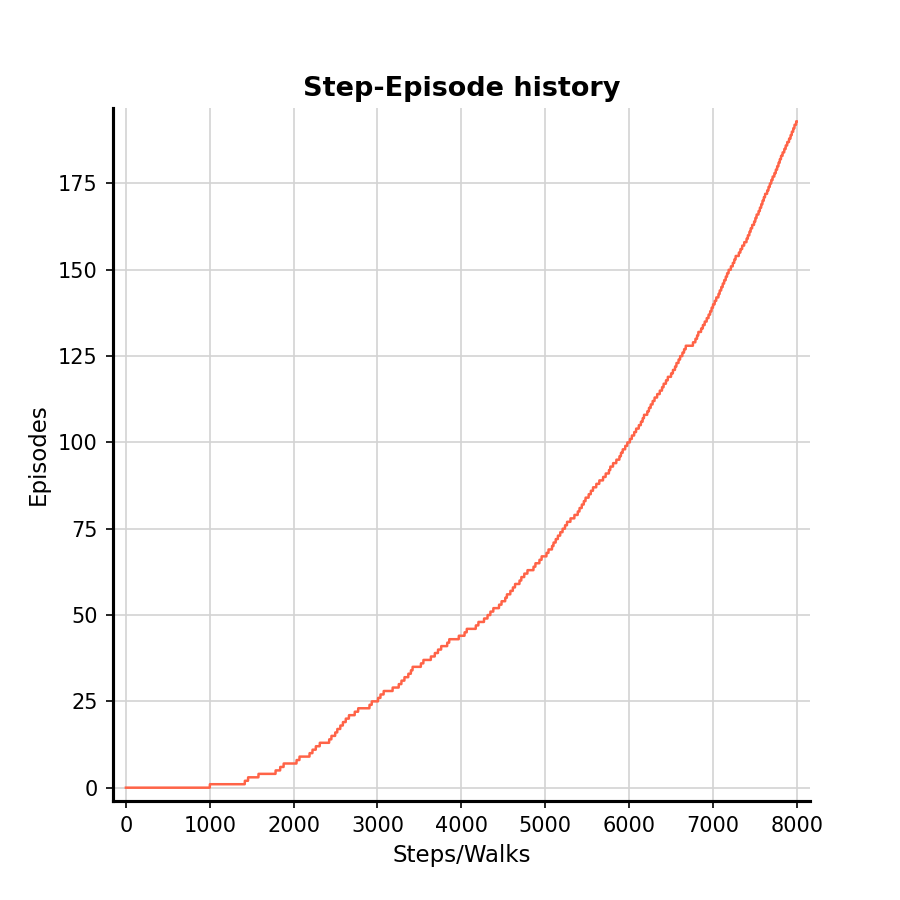
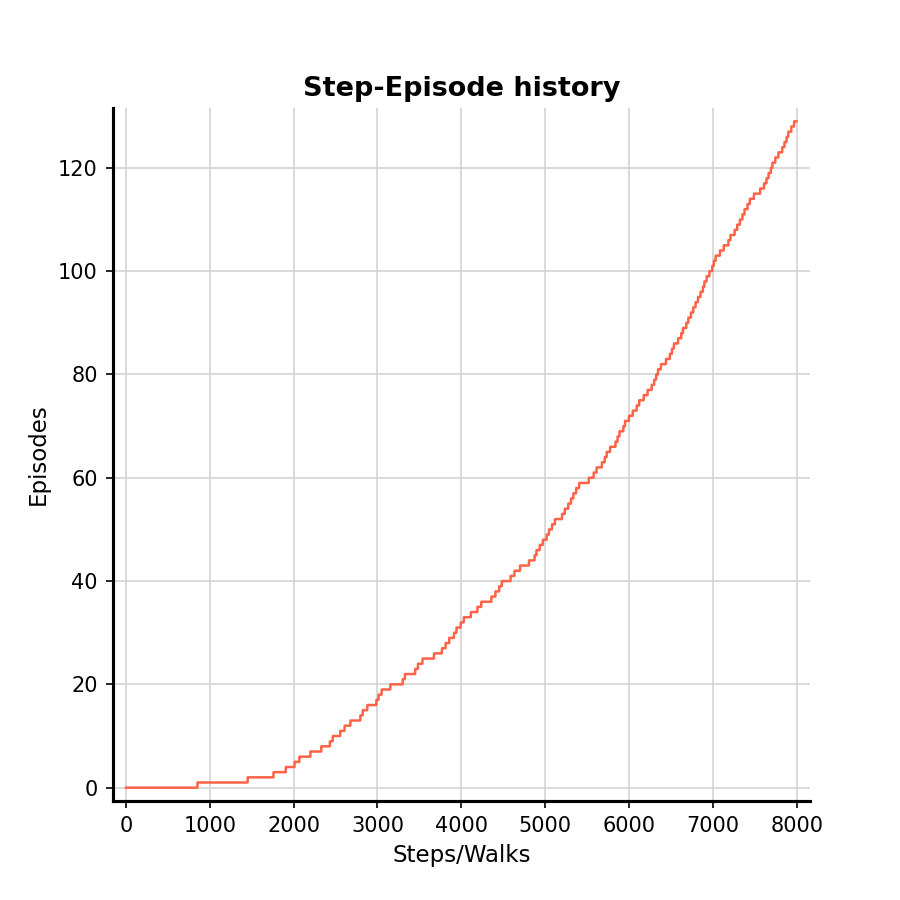
example 6.5 updated

diff --git a/chapter_06_temporal_difference_learning/example_6_5_windy_gridworld.py b/chapter_06_temporal_difference_learning/example_6_5_windy_gridworld.py
@@ -13,11 +13,9 @@ def epsilon_greedy(Q: np.ndarray, state: tuple, epsilon: float = 0.1) -> int:
 
 # SARSA Algorithm
 def SARSA(env: Any, alpha: float, epsilon: float, total_steps: int = 8000) -> tuple:
-    optim_init = 0
     gamma = 1.0
 
     # Initialize Q values
-    # Q = np.random.normal(loc=optim_init, scale=1.0, size=(*env.nS, env.nA))
     Q = np.zeros(shape=(*env.nS, env.nA))
     Q[env.goal] = 0  # Set the value of the terminal state to 0
 
@@ -65,6 +63,8 @@ def run_sarsa_windy(
     Q, step_episode_hist, reward_hist = SARSA(
         env, alpha=alpha, epsilon=epsilon, total_steps=total_steps
     )
+
+    # plot the result
     if plot:
         plt_setup(xlabel="Steps/Walks", ylabel="Episodes", title="Step-Episode history")
         plt.plot(step_episode_hist[:8000], linewidth=1.2, c="tomato")
@@ -76,6 +76,7 @@ def run_sarsa_windy(
         plt.savefig("./plots/example_6_5/rewards.png")
         plt.show()
 
+    # render out the animation of the learned optimal path
     if render_result:
         A = Q.argmax(axis=-1)
         env = WindyGridworld(render_mode="human")
@@ -88,6 +89,7 @@ def run_sarsa_windy(
                 break
 
 
+# Setup plot visualization basis
 def plt_setup(xlabel: str, ylabel: str, title: str = None):
     # codes for plotting
     font_dict = {"fontsize": 11}
@@ -106,7 +108,7 @@ def plt_setup(xlabel: str, ylabel: str, title: str = None):
 
 
 if __name__ == "__main__":
-    epsilon = 0.1
+    epsilon = 0.2
     alpha = 0.5
     total_steps = 20_000
     run_sarsa_windy(
